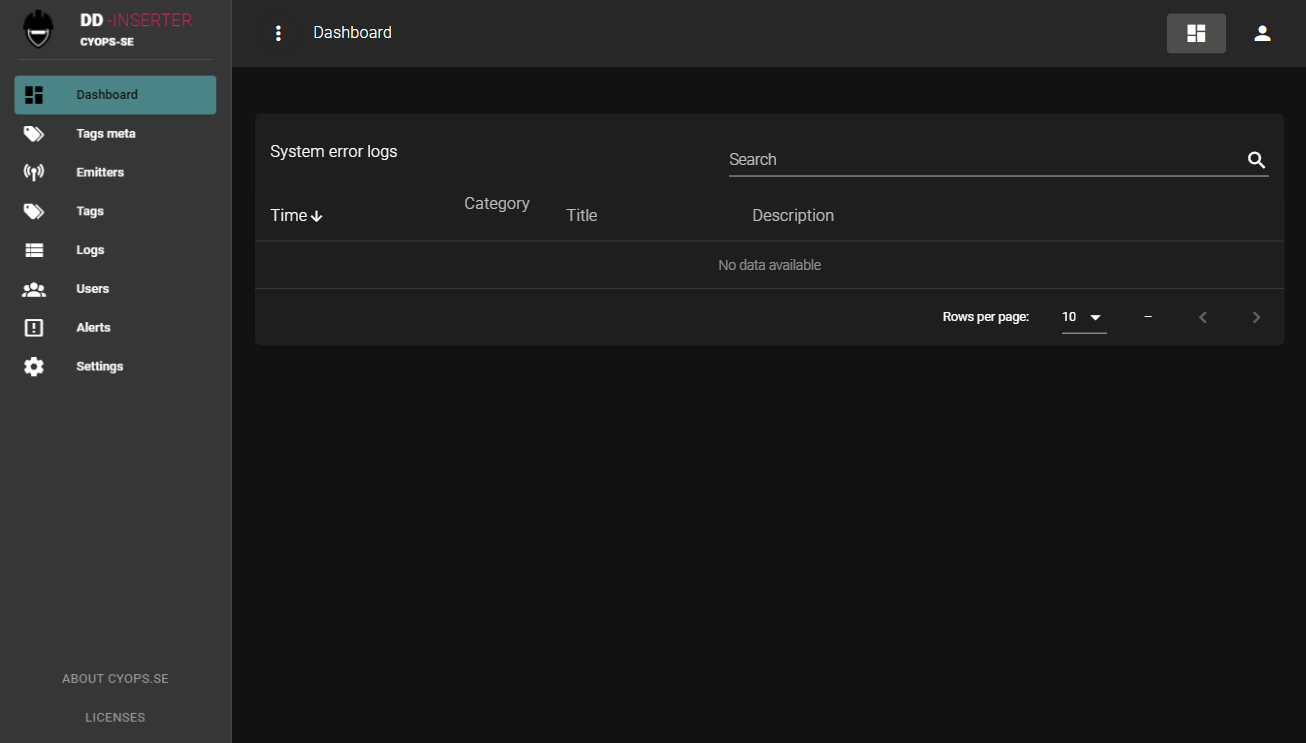
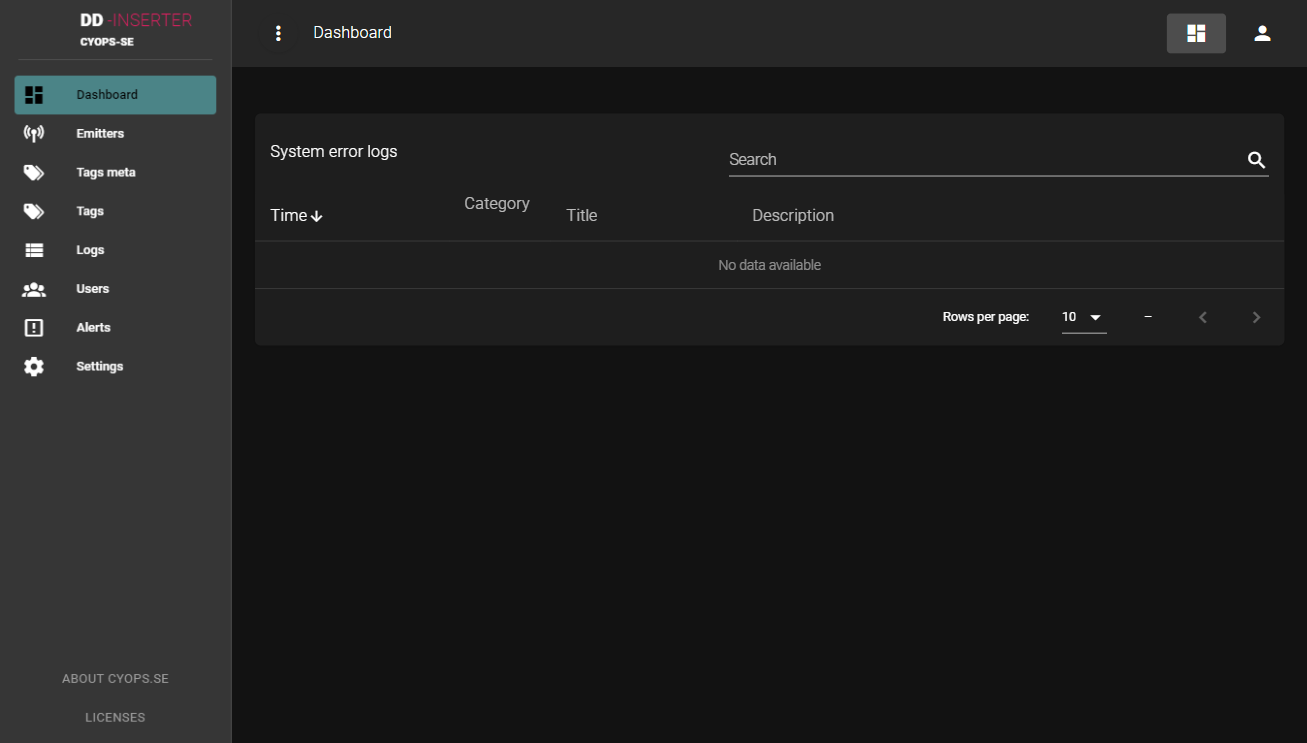
Documentation update and minor bugfixes

diff --git a/ui/src/views/ImportMeta.vue b/ui/src/views/ImportMeta.vue
@@ -146,20 +146,19 @@
     }),
 
     created () {
-      ApiService.get('meta/all')
-        .then(response => {
-          this.items = response.data
-          console.log('response.data: ' + JSON.stringify(response.data))
-          // for (var i = 0; i < this.items.length; i++) {
-          //   this.items[i].changed = false
-          // }
-          this.loading = false
-        }).catch(response => {
-          console.log('ERROR response: ' + JSON.stringify(response))
-        })
+      this.update()
     },
 
     methods: {
+      update () {
+        ApiService.get('meta/all')
+          .then(response => {
+            this.items = response.data
+            this.loading = false
+          }).catch(response => {
+            console.log('ERROR response: ' + JSON.stringify(response))
+          })
+      },
       processUploadV1 (files) {
         var t = this
         ApiService.upload('meta/import', files)
@@ -206,6 +205,8 @@
           var min = parseFloat(record[3])
           var max = parseFloat(record[4])
           var unit = record[5]
+
+          console.log('processing record: ' + record)
 
           if (inuse !== 'x') continue
           // if (tagname !== 'A001092AQ900') continue
@@ -255,6 +256,7 @@
         ApiService.post('meta/changes', this.items)
           .then(response => {
             t.$notification.success('Changes saved')
+            t.update()
           }).catch(function (response) {
             t.$notification.error('Failed to save changes: ' + response)
           })

diff --git a/ui/src/layouts/default/Drawer.vue b/ui/src/layouts/default/Drawer.vue
@@ -133,14 +133,14 @@
           text: 'Dashboard',
         },
         {
-          icon: 'mdi-tag-multiple',
-          text: 'Tags meta',
-          to: '/pages/importmeta',
-        },
-        {
           icon: 'mdi-antenna',
           text: 'Emitters',
           to: '/pages/emitters',
+        },
+        {
+          icon: 'mdi-tag-multiple',
+          text: 'Tags meta',
+          to: '/pages/importmeta',
         },
         {
           icon: 'mdi-tag-multiple',

diff --git a/ui/src/views/EmitterTable.vue b/ui/src/views/EmitterTable.vue
@@ -195,7 +195,6 @@
       },
 
       save () {
-        console.log('saving emitter: ' + JSON.stringify(this.editedItem))
         this.editedItem.settings = JSON.stringify(this.editedItem.instance)
         delete this.editedItem.instance
         var t = this

diff --git a/routes/import.go b/routes/import.go
@@ -34,7 +34,18 @@ func GetMetaAll(c *fiber.Ctx) error {
 	if rows, err := emitters.TimescaleDBConn.Query(context.Background(), "select tag_id,name,description,location,type,unit,min,max from measurements.tags"); err == nil {
 		for rows.Next() {
 			item := &types.Meta{}
-			rows.Scan(&item.TagId, &item.Name, &item.Description, &item.Location, &item.Type, &item.Unit, &item.Min, &item.Max)
+			var d, l, t, u *string
+			var min, max *float64
+
+			// Terrible hack to support null values in DB (lib/pq took care of this?)
+			// rows.Scan(&item.TagId, &item.Name, &item.Description, &item.Location, &item.Type, &item.Unit, &item.Min, &item.Max)
+			rows.Scan(&item.TagId, &item.Name, &d, &l, &t, &u, &min, &max)
+			item.Description = stringFromDB(d)
+			item.Location = stringFromDB(l)
+			item.Type = stringFromDB(t)
+			item.Unit = stringFromDB(u)
+			item.Min = float64FromDB(min)
+			item.Max = float64FromDB(max)
 			items = append(items, item)
 			log.Printf("META init of %s", item.Name)
 		}
@@ -118,4 +129,18 @@ func processCSVFile(filename string) ([][]string, error) {
 	}
 
 	return records, nil
+}
+
+func stringFromDB(v *string) string {
+	if v == nil {
+		return ""
+	}
+	return *v
+}
+
+func float64FromDB(v *float64) float64 {
+	if v == nil {
+		return 0.0
+	}
+	return *v
 }

diff --git a/engine/engine.go b/engine/engine.go
@@ -136,7 +136,7 @@ func runDataDispatch() {
 				if _, ok := dp.Value.(float64); ok {
 					value := dp.Value.(float64)
 					entry.Integrator += (entry.StoredValue - value)
-					if math.Abs(entry.Integrator/value) > entry.IntegratingDeadband {
+					if math.Abs(entry.Integrator/entry.StoredValue) > entry.IntegratingDeadband {
 						entry.StoredValue = value
 						entry.Integrator = 0.0
 						entry.LastEmitted = time.Now().UTC()

diff --git a/USERINTERFACE.md b/USERINTERFACE.md
@@ -5,15 +5,12 @@
 # Table of Contents
 * [Register new user](#register-new-user)
 * [Dashboard](#dashboard)
-* [Diode endpoints](#diode-endpoints)
-* [Sampling groups](#sampling-groups)
-* [OPC DA servers](#opc-da-servers)
-* [Tag browser](#tag-browser)
+* [Emitters](#emitters)
+* [Tags meta](#tagsmeta)
 * [Tags](#tags)
-* [Tag history](#tag-history)
-* [File transfer](#file-transfer)
 * [Logs](#logs)
 * [Users](#users)
+* [Alerts](#alerts)
 * [Settings](#settings)
 
 A simple user interface is provided to configure, operate and monitor the application health. After the application is started from an account with persmissions to access the local OPC DA servers, use a modern web browser (not Internet Explorer) to access http://localhost:3000
@@ -22,122 +19,54 @@ A simple user interface is provided to configure, operate and monitor the applic
 
 There is no default user and it is possible to register new users without any separate approval. Click the 'Register here' link to get to the new user registration page.
 
-# Register new user
-![user registration page](./assets/register-1.png)
+# Emitters
+![emitter](./assets/emitters-1.png)
 
-The users in this application are currently not used for anything, but is provided in preparation of future improvements.
+**NOTE! In this version, the application is dependent on a TimescaleDB emitter as some meta information like description, location, unit, min, max, is stored there.**
 
-Register a bogus user with information that is easy to remember and that is not used for any real accounts.
+The first thing you need to do (assuming you have installed and configured a Timescale database according to the instructions in the README) is to create a new TimescaleDB emitter with the connection string parameters for the target Timescale database.
 
-You will be redirected the Login page where you can enter the e-mail and password you just registered. A successful login will bring you to the Dashboard page.
+It is possible to have several emitters and the application will iterate through them all in no defined order to process data that have passed the filters (defined in the [tags](#tags) section).
 
-# Dashboard
-![empty dashboard](./assets/dashboard-1.png)
+# Tags meta
+![tags meta](./assets/tags_meta-1.png)
 
-The dashboard is empty from the beginning, but will show basic information about received OPC data. If an ```dd-opcda``` is already up and running and at least UDP port 4357 (default) is open in the local host firewall, there should be 
+In a new installation, this list is typically empty, but as soon as you have a working ```dd-opcda``` configuration and are receiving data from it, this list will automatically populate with ID and name which are the only required fields used to cross reference the actual timeseries table (see README for more information on table structure).
 
-# Diode endpoints
-![data diode end-point](./assets/end_point-1.png)
+The additional fields are optional but can be modified by importing a CSV file according to the folloing format (one header line, semi-colon as delimiter):
 
-A diode end-point represents the receiver on the other side of the data diode and is used to associate sampling groups with a target receiver, making it possible to forward different tags through different data-diodes if there are more than one. However, ***the application currently only support a single end-point***.
+```
+inuse;name;description;min;max;unit
+[x = inuse];[name];[description];[min];[max];[unit];
+```
 
-Use the **NEW END-POINT** button to add a new end-point using the dialog that pops up.
+For example:
+```
+inuse;name;description;min;max;unit
+x;Total Received;This entry is generated by the application;0.0;999.0;unit
+```
 
-| Field | Description |
-|-------|-------------|
-| Name | Can be anything that helps you identify the end-point. This value is shown in other dialogs that associate with end-points |
-| Description | Optional field that can be used to save details about the end-point configuration, like **netsh** commands etc. |
-| Endpoint IP | This IP address must math the receiving interface on the other side of the data diode (which is 10.0.0.11 in the provided example). |
-| Meta data port | UDP destination port used for meta data. **Meta data is currently not supported** |
-| Process data port | UDP destination port for data collected from OPC DA. This is the primary port used by ```dd-inserter``` to receive and process the data at the receiving end. **The receiving host must allow this port through the local host based filter for this function to work.** |
-| File transfer port | UDP destination port for file transfer. This is the primary port used by ```dd-inserter``` to receive files. **The receiving host must allow this port through the local host based filter for this function to work.** |
+After import, only entries that differ will be shown and the **SAVE CHANGES** button will light up. Clicking the button will commit the changes.
 
-# Sampling groups
-![sampling groups](./assets/sampling_groups-1.png)
+Using the **IMPORT TEXT** button does the same except it want the CSV content pasted in a text box rather than having the file uploaded.
 
-Sampling groups allow different tags to be sampled at different frequencies and potentially be sent through different data diodes or to different end-point hosts. Tags to be sampled are associated with one group each (it is not possible to include the same tag in different groups). Each group can hold several tags.
-
-Use the **NEW GROUP** button to add a new group using the dialog that pops up.
-
-| Field | Description |
-|-------|-------------|
-| Name | Can be anything that helps you identify the group. This value is shown in other dialogs that associate with groups |
-| Sampling Interval | The frequence in seconds that data will be sampled from the OPC DA server for this group. |
-| Server ProgID | The OPC DA server associated with tags in this group. |
-| Endpoint | The end-point defined previously following the instructions in the [End-point](#Endpoint) section |
-| Start automatically | Inidicates if sampling should start automatically after the application is restarted, for example if it is runnung as a service and the host is rebooted. |
-| Default group | Valid for a single group at a time and is used by the [tag browser](#Tagbrowser) to associate tags being selected to avoid unecessary editing of inidividual tags afterwards. If you have several groups, make sure to change the default group to the intended one before adding tags. |
-| Description | Optional field for user comments |
-
-# OPC DA Servers
-![OPC DA servers](./assets/opcda_servers-1.png)
-
-This view simply lists all OPC DA servers that could be identified by the application. If this list is empty and you are certain there is at least one OPC DA server in the same host as the application is running in, please check for which architecture (32- or 64-bit) the OPC DA server is intended and use the appropriate executable (or rebuild using GOARCH=386 resp GOARCH=amd64 environment variable values).
-
-Click on the magnifier at the right for the OPC DA server you want to sample data from to get to the tag browser.
-
-# Tag browser
-![tag browser](./assets/tag_browser-1.png)
-
-**NOTE! Please observe the information on tag path delimiters before you start adding tags! If the delimiter is not correct, the added tags will not be collected and have to be deleted and added again after the delimiter is configured properly! See section [settings](#Settings) for more information regarding tag path delimiters**.
-
-The tag browser the you reach by clicking on the magnifier in the OPC DA server view is useful when you have very small OPC trees, to troubleshoot tag paths or to get an import template, but is typically not suitable for larger OPC trees. For larger amounts of tags where the path is known, consider using the tag import feature mentioned below instead.
-
-To select tags for collection, simply 'check' them and 'uncheck' them to remove them from the sampling group. Removing tags is also possible from the [Tags](#Tags) view.
+![tags meta](./assets/tags_meta-2.png)
+![tags meta](./assets/tags_meta-2b.png)
+![tags meta](./assets/tags_meta-3.png)
 
 # Tags
 ![tags](./assets/tags-1.png)
-Tags selected using the [tag browser](#Tagbrowser) show up in this list from where it is possible to remove them or change group.
 
-From this view, it is possible to export and import tags in a very simple CSV format. An export (using the **EXPORT TO CSV** button) of the example list in the screenshot above will look like:
+This list is also populated automatically from the data received from ```dd-opcda``` and is used by the engine for filtering of received values. There are four different update types (or filters)
 
-```
-name;groupid;
-Random/Real8;1;
-Random/Real4;1;
-```
+| Update type | Description |
+|-------------|-------------|
+| Passthrough | Values will be forwarded to the emitters as soon as they are received. This option does not filter values |
+| Interval | This option ensures received values are not forwarded to emitters faster than the specified interval (in seconds). |
+| Deadband | This is an integrating deadband meaning the differences between the last forwarded value and the received values are accumulated. Once they reach the deadband threshold ```((integrator/lastforwardedvalue) > deadband)``` it will be passed through to the emitters, reset the integrator and use the last value as the last forwarded value |
+| Disabled | Using this option will prevent the value from being forwarded to the emitters |
 
-Lets add two tags that we know exist in the server (verify using the tag browser):
-
-```
-name;groupid;
-Random/Real8;1;
-Random/Real4;1;
-Writable/Real8;1;
-Writable/Real4;1;
-```
-
-Click **IMPORT FROM CSV** and drop the file in the dialog that pops up.
-
-![tags](./assets/tags-2.png)
-
-Click the **up arrow** to import the content for review before committing it to the configuration.
-
-![tags](./assets/tags-3.png)
-
-New and changed items are shown (unchanged items are filtered out) and the **SAVE CHANGES** button is activated. If the changes looks ok, click **SAVE CHANGES** to commit them (you may have to refresh the page to see the full list again).
-
-![tags](./assets/tags-4.png)
-
-# Tag history
-![tag hitory](./assets/tag_history-1.png)
-
-This feature stores messages already sent through a diode to local disk in the event it has to be resent, for example if a packet is lost or if the reciever is not available for some reason.
-
-The default retention period is 7 days, but this parameter can be modified in the [settings](#Settings) section. Messages are stored in 5 minute intervals, and the search function is efficient to find specific periods in time that need to be resent.
-
-![tag hitory](./assets/tag_history-2.png)
-
-Checking the files that represents the timespan that should be resent and clicking **SEND AGAIN** will copy the selected files to a certain outgoing file transfer folder used by ```dd-inserter``` on the receiving side to auto-commiting them.
-
-# File transfer
-![file transer](./assets/file_transfer-1.png)
-
-This feature is used to transer files from the sensitive network through a data diode. There are two ways files can be transferred. Either by using the **UPLOAD FILE** button and drag a file onto the upload dialog (and click the 'up arrow') or by putting the file or directory in the outgoing/new folder dd-inserter wording directory.
-
-Files are transferred one at a time, and the progress of the currently transferred file is shown in the user interface.
-
-![file transer](./assets/file_transfer-2.png)
+Use the **pen** icon to change update type and the **trash bin** to delete the tag temporarily (it will be automatically re-populated with default values)
 
 # Logs
 ![logs](./assets/logs-1.png)
@@ -145,16 +74,24 @@ Files are transferred one at a time, and the progress of the currently transferr
 Simple log view listing all events in the system. Use the search feature to filter out events of interest and use column sorting e.g. to get the timeline in ascending or descending order.
 **CLEAR ALL ENTRIES** wipes the log clean.
 
+# Users
 ![users](./assets/users-1.png)
 
 Simple list of registered users. It is possible to change name and e-mail for existing users or remove them from the system. There is currently no permissions or access rights associated, nor is there any audit logs.
+
+# Alerts
+![alerts](./assets/alerts-1.png)
+
+The application monitors sequence numbers that are included in the message from ```dd-opcda``` in an attempt to detect problems, like packet loss. If the difference in sequence number is greater than 5 an alert is generated.
+
+Alerts can be sent as e-mail provided there is a local, unauthenticated mail server available (which is not uncommon inside an organization). Use this view to enter information regarding mailserver and e-mail recipients.
 
 # Settings
 ![settings](./assets/settings-1.png)
 
 | Setting | Description |
 |---------|-------------|
-| tagpathdelimiter | **IMPORTANT**: Collection of tags will not work unless this parameter is correct. Common delimiters are '.' and '/' but there may be others. For ABB 800xA, the delimiter is '.', but it is '/' for the Integration Objects simulation server. Default for dd-inserter is '.'. This setting must be correct before tags are added to groups using either the tag browser or the tag import.
-| cacheretention | Determines the number of days messages should be stored locally in case they need to be resent |
-| filetransfer.modulus | Depending on network architecture and capabilities of the receiving host it may be necessary to slow down the number of packets sent per second to avoid packet loss. This value determine how many packets to send before pausing a number of milliseconds (defined by another setting) |
-| filetransfer.msdelay | Determines how long the pause should be in milliseconds between batches of packets (batch size determined by filetransfer.modulus) |
+| monitor.smtp | This should point to a simple, unauthenticated, internal SMTP server to use for alert e-mails. Typically, you can use the [alerts](#alerts) view for managing this parameter instead |
+| monitor.recipients | Recipient e-mails separated by a comma. Typically, you can use the [alerts](#alerts) view for managing this parameter instead |
+| monitor.subject | The subject line to use in the alert e-mails |
+| monitor.usemx | This option tells the engine to lookup recipient SMTP server rather than using the specified SMTP server |

diff --git a/README.md b/README.md
@@ -3,6 +3,8 @@
 **cyops-se**: *This application is part of the cyops.se community and use the same language and terminology. If there are acronyms or descriptions here that are unknown or ambiguous, please visit the [documentations](https://github.com/cyops-se/docs) site to see if it is explained there. You are welcome to help us improve the content regardless if you find what you are looking for or not*.
 
 ## Introduction
+**NOTE! In this version, the application is dependent on a TimescaleDB emitter as some meta information like description, location, unit, min, max, is stored there. Please refer to section below on how to set it up for version 0.2.0**
+
 This application (```dd-inserter```) receives one way UDP messages produced by [dd-opcda](https://github.com/cyops-se/dd-opcda) and inserts the data into a timescale database or/and forwards them on the RabbitMQ channel.
 
 Typical usage is as the outer end of a data diode used to replicate real time data from a sensitive system to a potentially hostile network in order to maintain full network isolation of the sensitive network.
